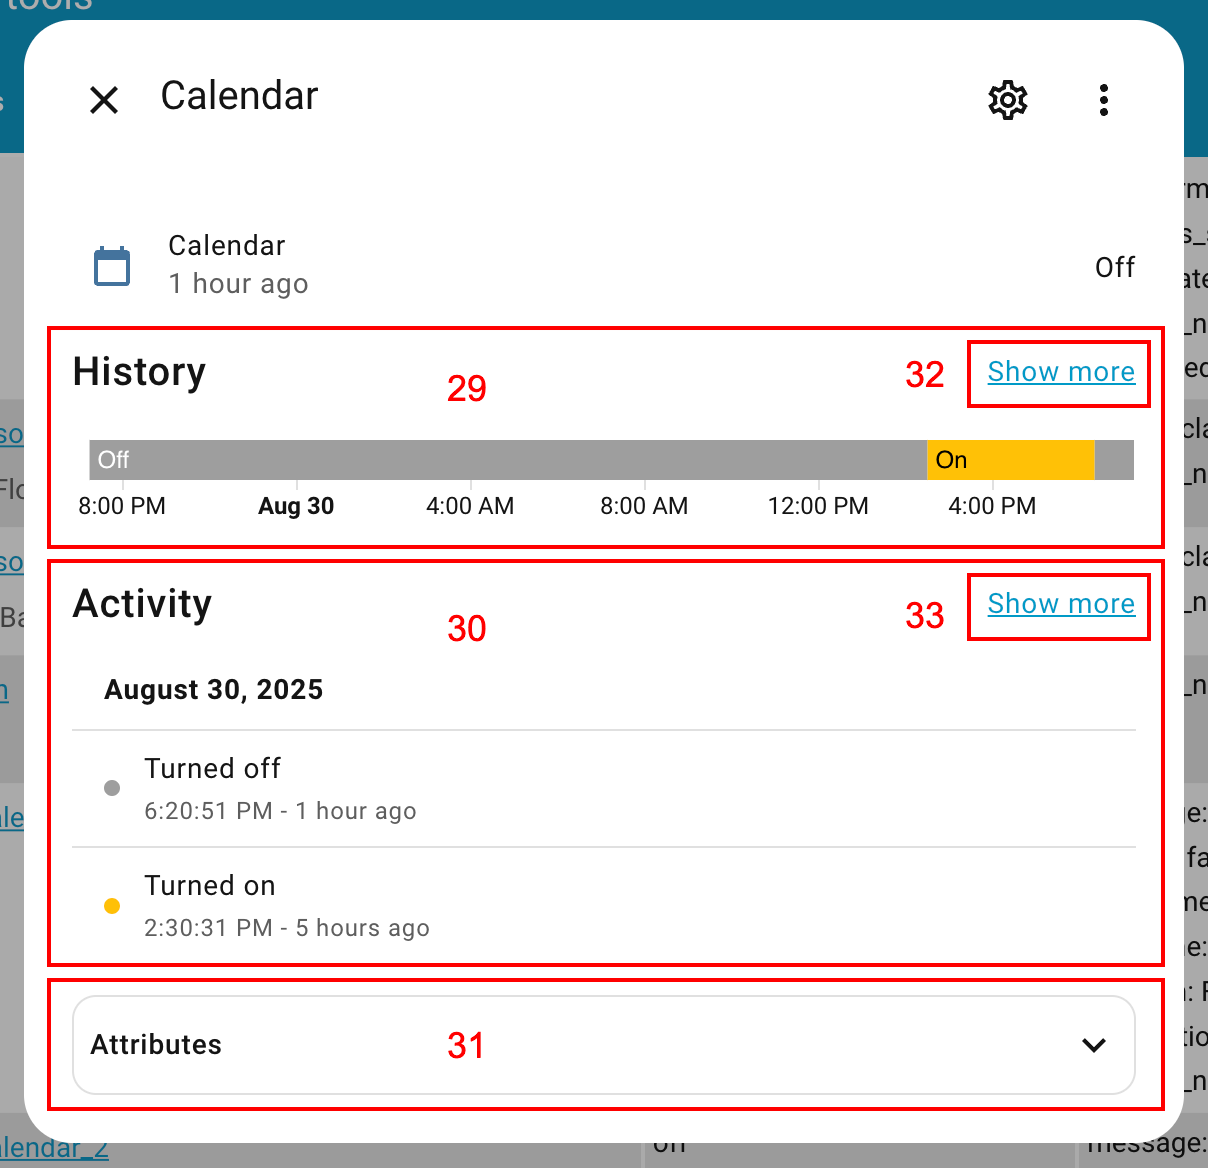
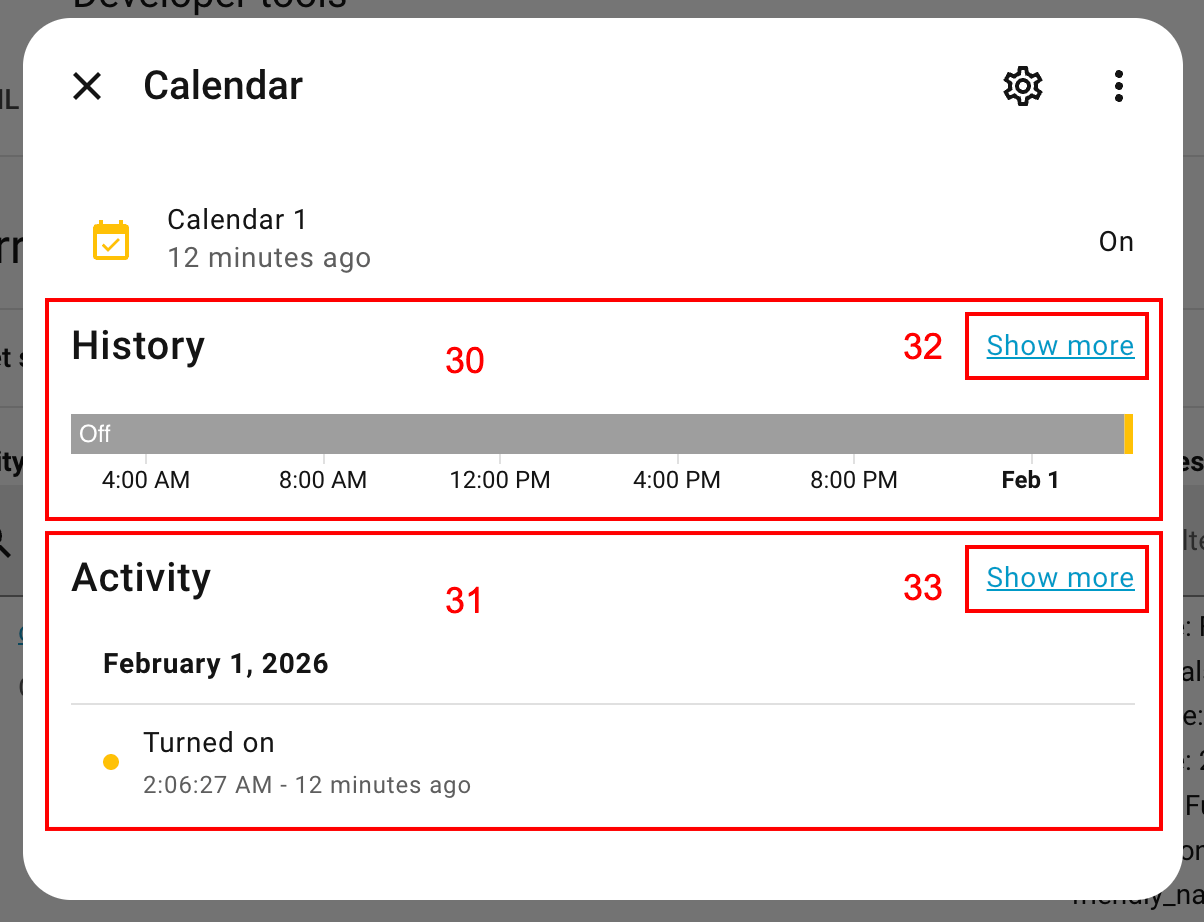
Update documentation

diff --git a/README.md b/README.md
@@ -22,6 +22,7 @@ Hides the header and/or sidebar drawer in [Home Assistant](https://www.home-assi
 > [!IMPORTANT]  
 > 1. If you have `Home Assistant` `2025.5.1` or greater installed, the minimum compatible version that you can install is `Kiosk Mode` `v7.0.0`. If you are in a lower version of `Home Assistant`, the latest compatible version that you can install is `v6.7.0`.
 > 2. If you have `Home Assistant` `2025.10.0` or greater installed, the minimum compatible version that you can install is `Kiosk Mode` `v8.0.0`. If you are in a version of `Home Assistant` between `2025.5.1` and `2025.10.0`, the latest compatible version that you can install is `v7.4.0`.
+>3. If you have `Home Assistant` `2026.2.0` or greater installed, the minimum compatible version that you can install is `Kiosk Mode` `v10.0.0`. If you are in a version of `Home Assistant` between `2025.10.0` and `2025.1.3`, the latest compatible version that you can install is `v9.0.2`.
 
 <details>
   <summary><b>Installation through HACS</b></summary>
@@ -184,13 +185,14 @@ All the options, excluding `debug_template`, can be set as a boolean and all of 
 | `hide_header`                | 1                    |
 | `hide_sidebar`               | 2                    |
 | `hide_menubutton`            | 3                    |
-| `hide_notifications`         | 4                    |
-| `hide_account`               | 5                    |
-| `hide_add_to_home_assistant` | 6                    | 
-| `hide_search`                | 7                    |
-| `hide_assistant`             | 8                    |
-| `hide_overflow`              | 9                    |
-| `block_overflow`             | 9                    |
+| `hide_config`                | 4                    |
+| `hide_notifications`         | 5                    |
+| `hide_account`               | 6                    |
+| `hide_add_to_home_assistant` | 7                    | 
+| `hide_search`                | 8                    |
+| `hide_assistant`             | 9                    |
+| `hide_overflow`              | 10                   |
+| `block_overflow`             | 10                   |
 | `block_mouse`                | whole interface      |
 | `block_context_menu`         | right click anywhere |
 
@@ -202,10 +204,10 @@ All the options, excluding `debug_template`, can be set as a boolean and all of 
 
 | Options                 | Hides |
 |:------------------------|:------|
-| `hide_refresh`          | 10    |
-| `hide_unused_entities`  | 11    |
-| `hide_reload_resources` | 12    |
-| `hide_edit_dashboard`   | 13    |
+| `hide_refresh`          | 11    |
+| `hide_unused_entities`  | 12    |
+| `hide_reload_resources` | 13    |
+| `hide_edit_dashboard`   | 14    |
 
 <br>
 
@@ -215,12 +217,12 @@ All the options, excluding `debug_template`, can be set as a boolean and all of 
 
 | Options                                    | Hides |
 |:-------------------------------------------|:------|
-| `hide_dialog_header_breadcrumb_navigation` | 14    |
-| `hide_dialog_header_action_items`          | 15    |
-| `hide_dialog_header_history`               | 16    |
-| `hide_dialog_header_settings`              | 17    |
-| `hide_dialog_header_overflow`              | 18    |
-| `hide_dialog_media_actions`                | 19    |
+| `hide_dialog_header_breadcrumb_navigation` | 15    |
+| `hide_dialog_header_action_items`          | 16    |
+| `hide_dialog_header_history`               | 17    |
+| `hide_dialog_header_settings`              | 18    |
+| `hide_dialog_header_overflow`              | 19    |
+| `hide_dialog_media_actions`                | 20    |
 <br>
 
 ![Lovelace Dashboard](images/more-info-dialog-climate-entity.png)
@@ -229,9 +231,9 @@ All the options, excluding `debug_template`, can be set as a boolean and all of 
 
 | Options                                   | Hides |
 |:------------------------------------------|:------|
-| `hide_dialog_climate_actions`             | 20    |
-| `hide_dialog_climate_temperature_actions` | 21    |
-| `hide_dialog_climate_settings_actions`    | 22    |
+| `hide_dialog_climate_actions`             | 21    |
+| `hide_dialog_climate_temperature_actions` | 22    |
+| `hide_dialog_climate_settings_actions`    | 23    |
 <br>
 
 ![Lovelace Dashboard](images/more-info-dialog-light-entity.png)
@@ -240,10 +242,10 @@ All the options, excluding `debug_template`, can be set as a boolean and all of 
 
 | Options                                   | Hides |
 |:------------------------------------------|:------|
-| `hide_dialog_light_actions`               | 23    |
-| `hide_dialog_light_control_actions`       | 24    |
-| `hide_dialog_light_color_actions`         | 25    |
-| `hide_dialog_light_settings_actions`      | 26    |
+| `hide_dialog_light_actions`               | 24    |
+| `hide_dialog_light_control_actions`       | 25    |
+| `hide_dialog_light_color_actions`         | 26    |
+| `hide_dialog_light_settings_actions`      | 27    |
 <br>
 
 ![Lovelace Dashboard](images/more-info-dialog-update-entity.png)
@@ -252,7 +254,7 @@ All the options, excluding `debug_template`, can be set as a boolean and all of 
 
 | Options                      | Hides |
 |:-----------------------------|:------|
-| `hide_dialog_update_actions` | 27    |
+| `hide_dialog_update_actions` | 28    |
 <br>
 
 ![Lovelace Dashboard](images/more-info-dialog-timer-entity.png)
@@ -261,7 +263,7 @@ All the options, excluding `debug_template`, can be set as a boolean and all of 
 
 | Options                      | Hides |
 |:-----------------------------|:------|
-| `hide_dialog_timer_actions`  | 28    |
+| `hide_dialog_timer_actions`  | 29    |
 <br>
 
 ![Lovelace Dashboard](images/more-info-dialog-history-logbook-attributes.png)
@@ -270,9 +272,8 @@ All the options, excluding `debug_template`, can be set as a boolean and all of 
 
 | Options                         | Hides |
 |:--------------------------------|:------|
-| `hide_dialog_history`           | 29    |
-| `hide_dialog_logbook`           | 30    |
-| `hide_dialog_attributes`        | 31    |
+| `hide_dialog_history`           | 30    |
+| `hide_dialog_logbook`           | 31    |
 | `hide_dialog_history_show_more` | 32    |
 | `hide_dialog_logbook_show_more` | 33    |
 
